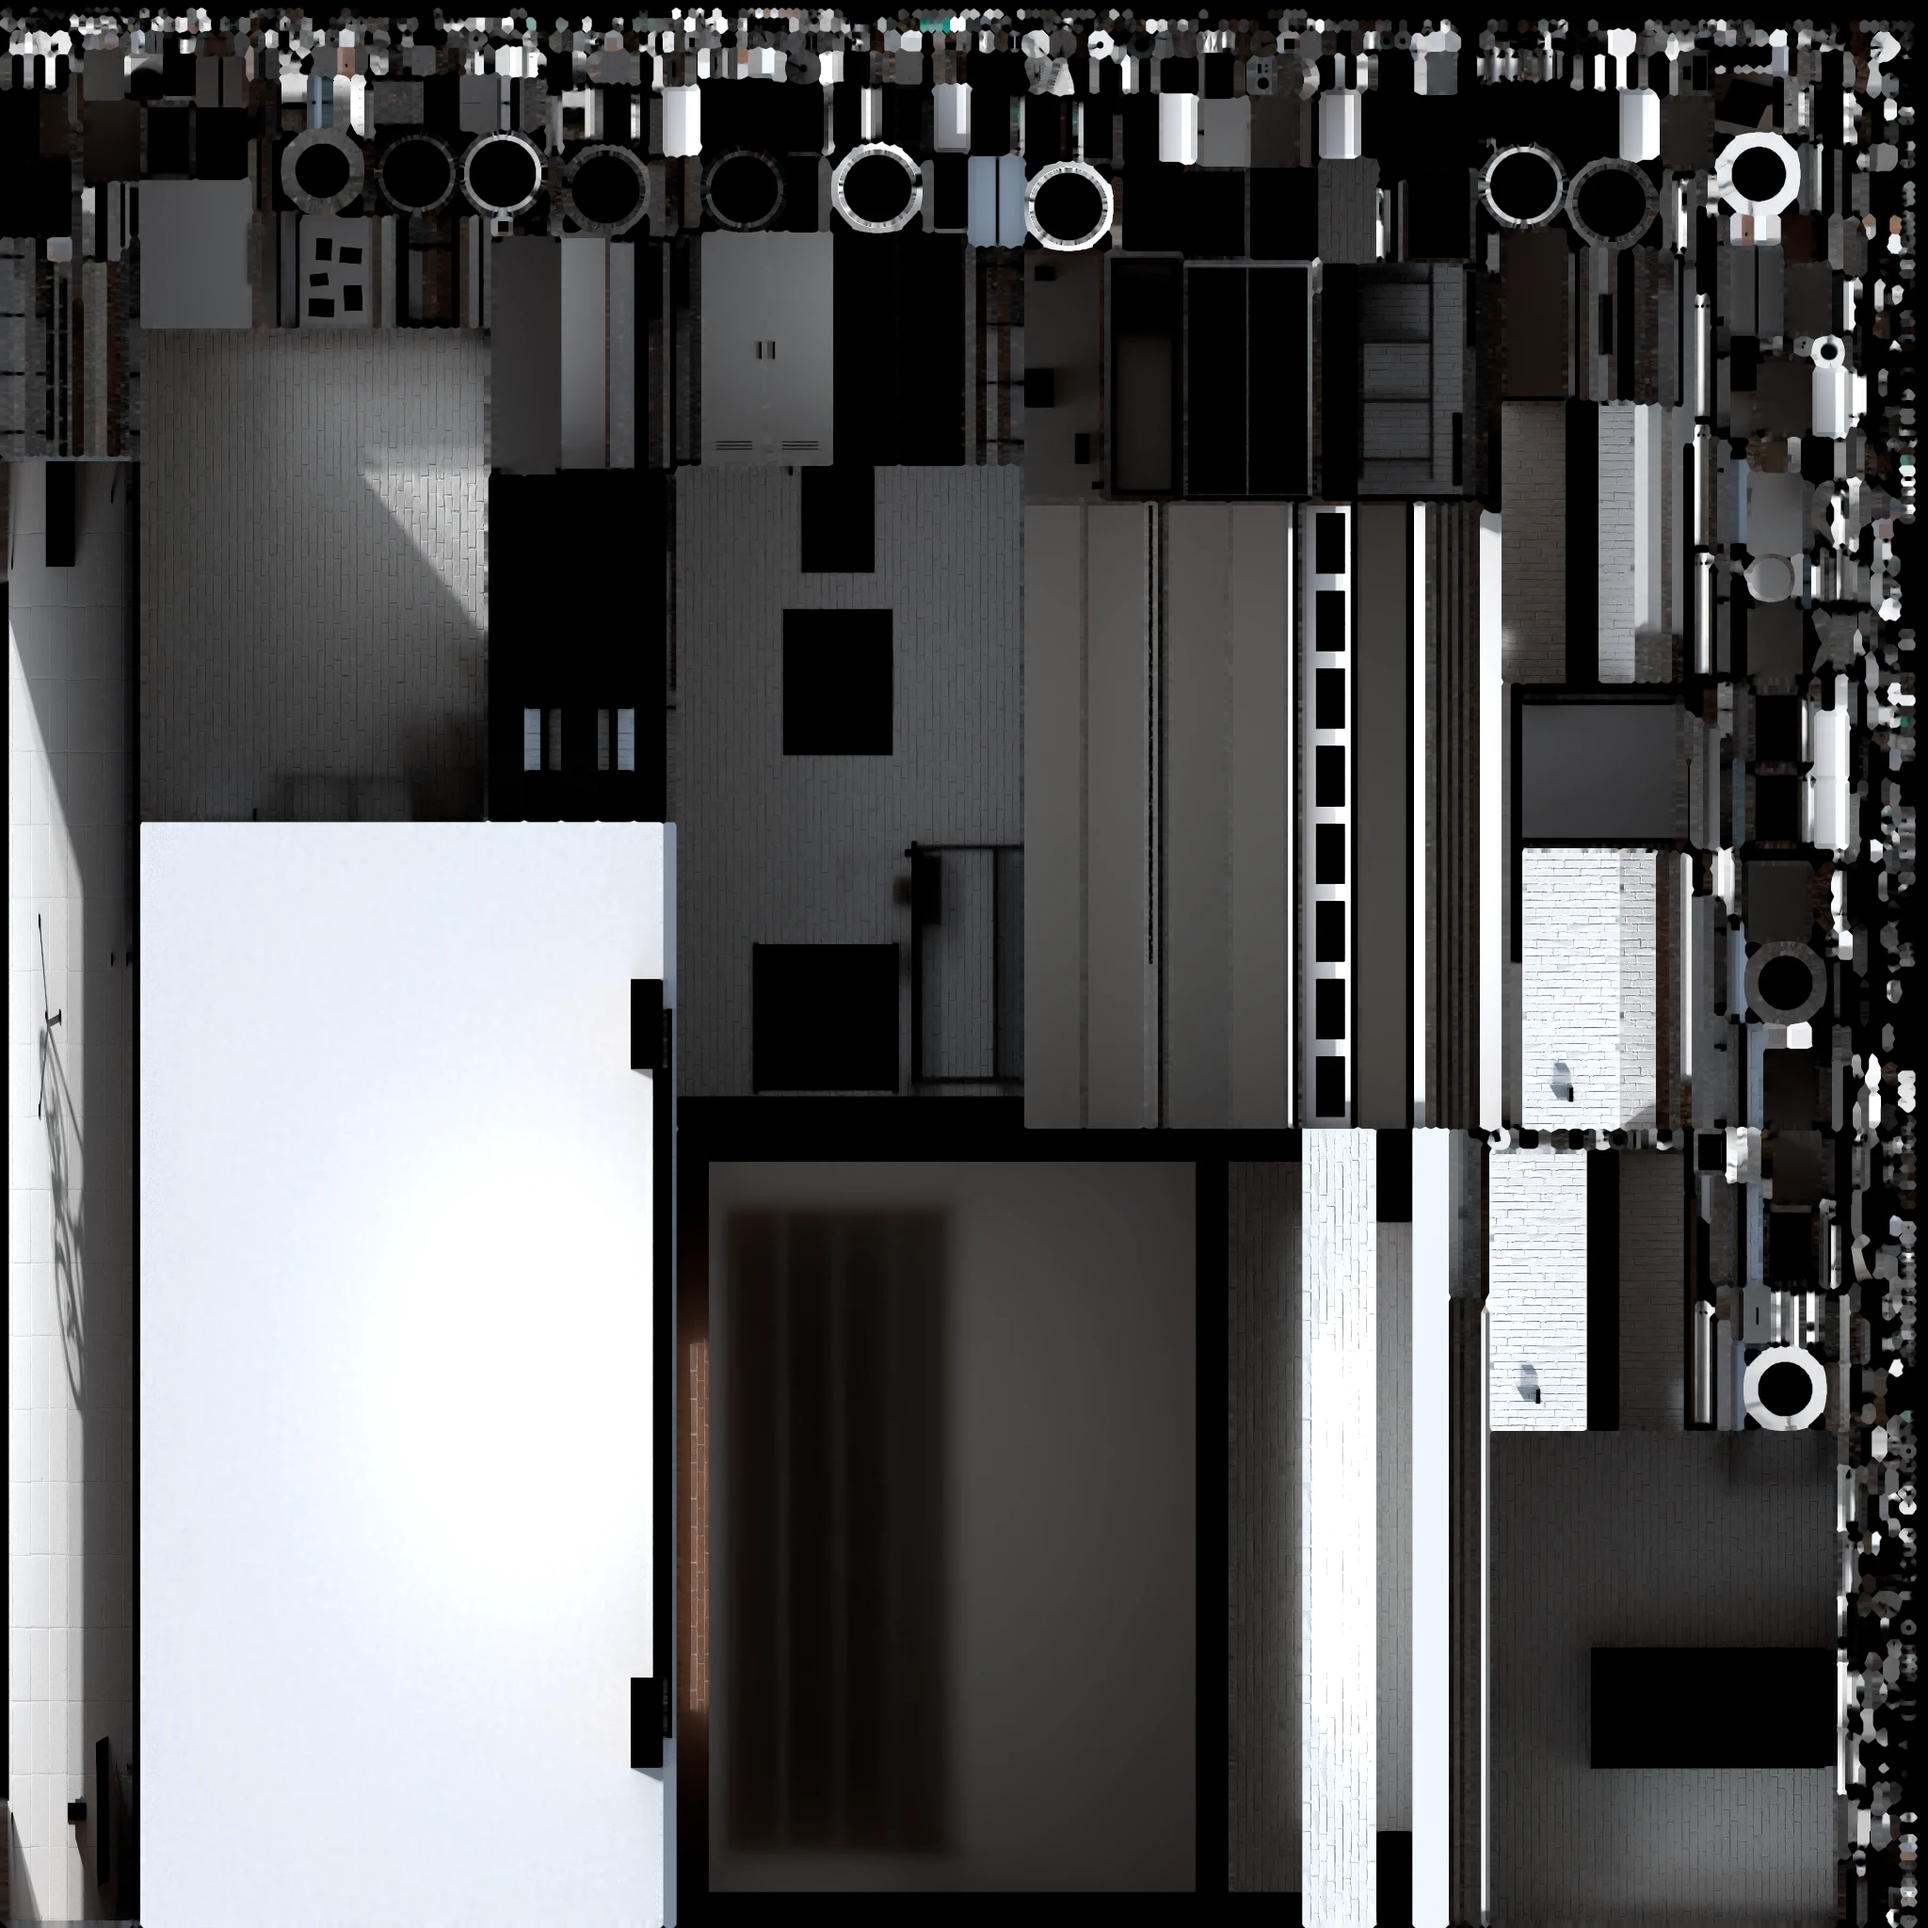
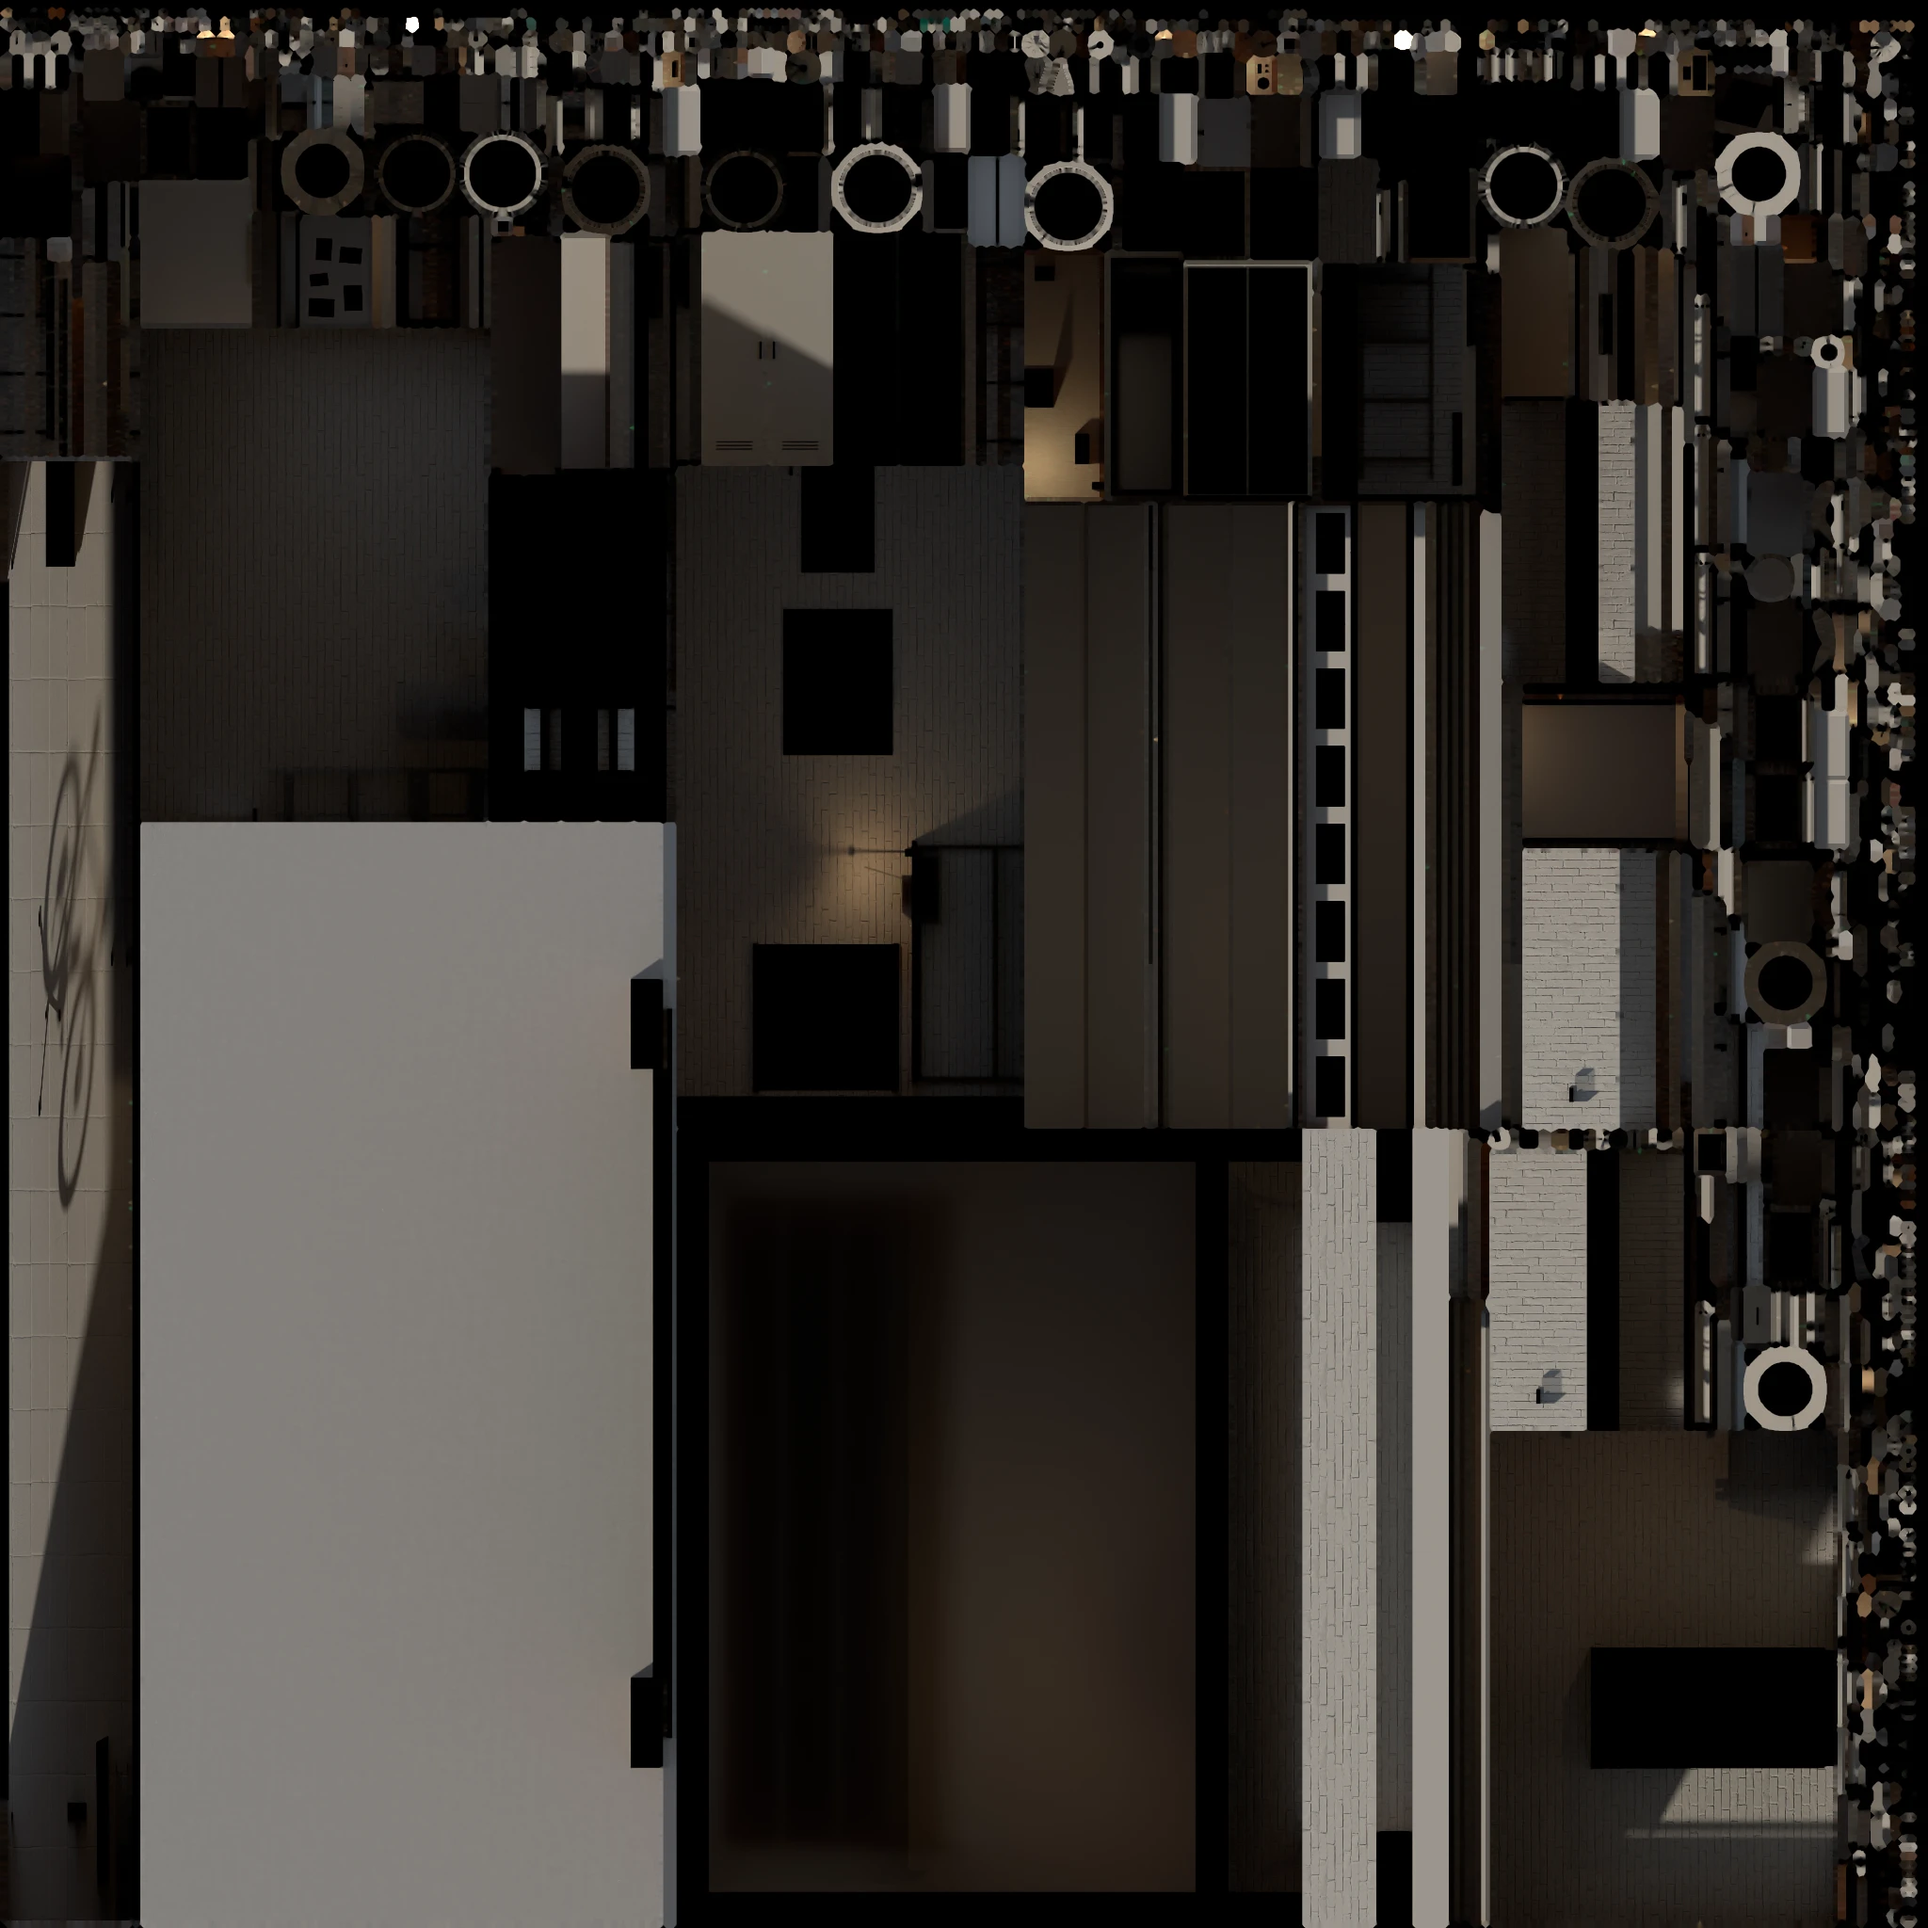
feat: warm afternoon light rig, bench lamp on, file lights out of the bake
The .blend carries a Review_Licht collection (sun 6.0, area 150 W) for
viewport reviews; export.py never removed it, so every lightmap so far was
lit by those two and the export rig only added a little on top. The script
now deletes all lights of the file before the bake.

The daylight rig is now a set of constants: a warm 4000 K sun at 3.0 from
the front right, 25 degrees high, 35 degrees azimuth, so one streak runs
through the gate to the bench and the right pillar casts a diagonal shadow
edge to the rear wall; a hazy sky at 0.4 as fill; the bench lamp burns in
daylight as a 10 W 2700 K point light in front of its diffuser disc. The
facade caps the sun at about 3.2 (lightmap clip), the sky has to stay well
under the sun or the streak drowns in the fill.

Lightmap and both stills rebaked, GLB and JSON unchanged.

diff --git a/.claude/skills/blender-export/export.py b/.claude/skills/blender-export/export.py
@@ -61,6 +61,26 @@ LIGHTMAP_QUALITY = 90  # lossy WebP: 0.5 MB instead of 3.5 MB as PNG, no visible
 # Sunlit surfaces exceed 1.0; the PNG stores the bake darkened by this many stops and
 # lib/garage/lightmap.ts (LIGHTMAP_EXPOSURE_STOPS) brightens it back in the shader.
 EXPOSURE_STOPS = -1.5
+
+# Daylight rig "Tag" (docs/ATMOSPHAERE.md §2). Colours are linear RGB.
+SUN_COLOR = (1.0, 0.86, 0.68)  # about 4000 K, afternoon
+# The facade faces the sun almost squarely (cos 25° cos 30° = 0.79) and the lightmap clips
+# at 2^1.5 = 2.83 irradiance (EXPOSURE_STOPS), so the sun's red channel may not exceed
+# about 3.2 with the sky on top. The floor streak then gets sin 25° of it, 1.3.
+SUN_ENERGY = 3.0
+SUN_ELEVATION_DEG = 25  # low enough that the streak through the gate reaches the bench
+# From the front right, so the streak runs towards the bench on the left and the right
+# pillar's shadow cuts a diagonal across the floor to the rear wall: light on the bench
+# and the bike, shade on the shelf and the boxes.
+SUN_AZIMUTH_DEG = 35
+SKY_COLOR = (0.62, 0.70, 0.80)  # a hazy sky, barely blue: the fill must not cool the shadows
+# The sky enters over the whole gate and lights the floor from a third of the hemisphere,
+# the low sun only with sin 25°. At strength 1.0 the shade was half as bright as the
+# streak and the streak went flat; the streak needs about four times the shade.
+SKY_STRENGTH = 0.4
+LAMP_COLOR = (1.0, 0.62, 0.30)  # 2700 K
+LAMP_ENERGY = 10.0  # watts: a pool on the bench top 60 cm below the bulb, about the streak's level
+
 # A camera closer than this to a face's plane keeps the face, so parallax and small
 # camera moves never uncover a hole (CameraRig lerps positions, so the endpoints suffice).
 CULL_MARGIN = 0.5
@@ -239,20 +259,47 @@ for mat in bpy.data.materials:
 
 # ---------------------------------------------------------------- lightmap
 if not skip_bake:
-    # Daylight rig "Tag": sky through the gate and the window, sun from the front left
-    # (docs/KONZEPT.md §2 "Dach und Tor"). The night rig comes in phase 3.
+    # The file's own lights (collection Review_Licht: a 6.0 sun and a 150 W area light
+    # for viewport reviews) must not reach the bake. They did until now: every earlier
+    # lightmap was lit by them, the rig below only added a little on top.
+    for o in [o for o in bpy.data.objects if o.type == "LIGHT"]:
+        bpy.data.objects.remove(o)
+
+    # Daylight rig "Tag" (docs/ATMOSPHAERE.md §2): late afternoon, not noon. A warm, low
+    # sun from the front right lays one long streak through the gate across the floor to
+    # the workbench; the sky is a dim fill so the shadows read warm from the brick bounce,
+    # not blue. The night rig comes in phase 3.
     world = bpy.data.worlds.new("Bake_Tag")
     world.use_nodes = True
     background = world.node_tree.nodes["Background"]
-    background.inputs["Color"].default_value = (0.5, 0.65, 0.85, 1.0)
-    background.inputs["Strength"].default_value = 1.3  # brick swallows more than plaster did
+    background.inputs["Color"].default_value = (*SKY_COLOR, 1.0)
+    background.inputs["Strength"].default_value = SKY_STRENGTH
     scene.world = world
     sun_data = bpy.data.lights.new("Sonne", "SUN")
-    sun_data.energy = 2.2  # 3.0 blew the sunlit brick facade out to pink
+    sun_data.energy = SUN_ENERGY
+    sun_data.color = SUN_COLOR
     sun_data.angle = radians(3)
     sun = bpy.data.objects.new("Sonne", sun_data)
     scene.collection.objects.link(sun)
-    sun.rotation_euler = (radians(50), 0.0, radians(-30))
+    # Blender's sun shines down its local -Z; tilting by (90 - elevation) about X sends it
+    # into the room (+Y, away from the gate), the Z turn swings it towards the bench.
+    sun.rotation_euler = (radians(90 - SUN_ELEVATION_DEG), 0.0, radians(SUN_AZIMUTH_DEG))
+
+    # The bench lamp burns in daylight too: a warm pool on the bench top is the sign that
+    # someone works here. The bulb sits just in front of the lamp's diffuser disc (the
+    # largest face in the head's third material slot, see build_furniture.py) so the disc
+    # itself bakes bright and the lamp head shades everything above.
+    lamp = bpy.data.objects["Leuchte"]
+    disc = max(
+        (p for p in lamp.data.polygons if p.material_index == 2 and p.normal.z < 0), key=lambda p: p.area
+    )
+    bulb_data = bpy.data.lights.new("Leuchte_Birne", "POINT")
+    bulb_data.energy = LAMP_ENERGY
+    bulb_data.color = LAMP_COLOR
+    bulb_data.shadow_soft_size = 0.03
+    bulb = bpy.data.objects.new("Leuchte_Birne", bulb_data)
+    scene.collection.objects.link(bulb)
+    bulb.location = lamp.matrix_world @ (disc.center + disc.normal * 0.02)
 
     prefs = bpy.context.preferences.addons["cycles"].preferences
     prefs.compute_device_type = "METAL"

diff --git a/.claude/skills/blender-export/SKILL.md b/.claude/skills/blender-export/SKILL.md
@@ -66,8 +66,15 @@ Backtrace ist der Metal-Kernel-Cache, einmal wiederholen.
   `KHR_texture_transform` schreibt. Die Normal Map wirkt nur im Bake (Fugenschatten landen
   in der Lightmap); vor dem GLB-Export kappt das Skript den Normal-Link, ins GLB geht nur
   die Farbe als WebP (`export_image_format="WEBP"`, Qualität `TEXTURE_QUALITY`).
-- Lichtrig "Tag" steht in `export.py`: Himmel 1,3 durch Tor und Fenster, Sonne 2,2 von vorn
-  links, 40° hoch (3,0 brannte die Backsteinfassade rosa aus). Das Nachtrig kommt in
+- Lichtrig "Tag" steht als Konstanten in `export.py` (`SUN_*`, `SKY_*`, `LAMP_*`):
+  Nachmittag, Sonne warm (4000 K) mit 3,0 von vorn rechts, 25° hoch, 35° Azimut, so dass
+  ein Streifen durchs Tor bis zur Werkbank läuft und der rechte Pfeiler eine Schattenkante
+  bis zur Rückwand wirft; Himmel 0,4 als schwaches, kaum blaues Fülllicht; die
+  Werkbankleuchte brennt mit 10 W bei 2700 K, die Birne sitzt vor der Diffusorscheibe der
+  `Leuchte` (drittes Materialfach). Die Fassade deckelt die Sonne: sie steht fast frontal
+  zu ihr, und über etwa 3,2 clippt die Lightmap dort (`EXPOSURE_STOPS`). Die Lichter der
+  `.blend` (`Review_Licht`, Sonne 6,0 und Fläche 150 W für die Viewport-Ansicht) löscht das
+  Skript vor dem Bake; bis 2026-09-18 haben sie jeden Bake dominiert. Das Nachtrig kommt in
   Phase 3 als zweites Bild.
 - Bake über ein zusammengefügtes Proxy (ein Cycles-Durchlauf statt fünfzig); die Originale
   sind derweil aus dem Render, sonst verschatten deckungsgleiche Flächen den Bake.
